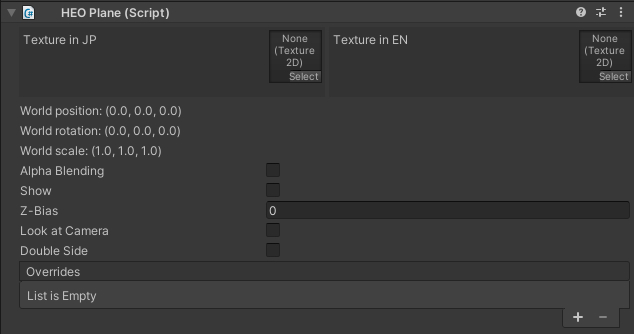
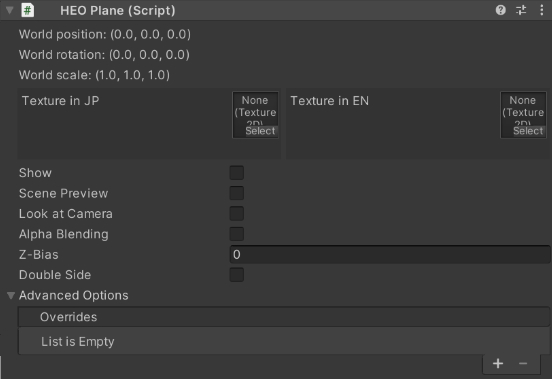
画像差し替え及びOverridesの解説追加

diff --git a/docs/HEOComponents/HEOPlane.ja.md b/docs/HEOComponents/HEOPlane.ja.md
@@ -18,6 +18,11 @@ HEOPlaneは、画像ファイルをインスタンス生成する機能です。
 | Z-Bias | 0 | z値が高いと、ほかのオブジェクトよりも手前に表示されます |
 | Look at Camera | false | カメラ方向に対して常に正面を向くようになります |
 | Double Side | false | 両面表示するか否かを切り替えます |
+| Overrides | | ワールド入場時に`Overrides`にて設定された`Material`及び`Texture`がHEOPlaneにて設定したTextureに代わって使用されます |
+
+!!! note caution
+    Overrides項目は現在実装中の機能です。<br>
+    本機能については今後のアップデートで使い方が更新される予定です。
 
 !!! note
     Ver9.0以前の`Billboard`設定は`Look at Camera`に名称が変更されました。<br>

diff --git a/docs/HEOComponents/HEOPlane.en.md b/docs/HEOComponents/HEOPlane.en.md
@@ -18,6 +18,11 @@ For details, please refer to the [specification limit](../WorldMakingGuide/Unity
 | Z-bias | 0 | Higher z value will make the image show in front of other objects. |
 | Look at Camera | false | Make the image face towards the camera at all times. |
 | Double Side | false | Enable/Disable display on double sides |
+| Overrides | | On Entering the world, the `Material` and `Texture` set in the Overrides will be used instead of textures set in HEOPlane. |
+
+!!! note caution
+    The Overrides property is currently under progress.<br>
+    Further usage are to be added by future updates.
 
 !!! note
     The `Billboard` setting in pre-Ver9.0 components has been renamed to `Look at Camera`.<br>
